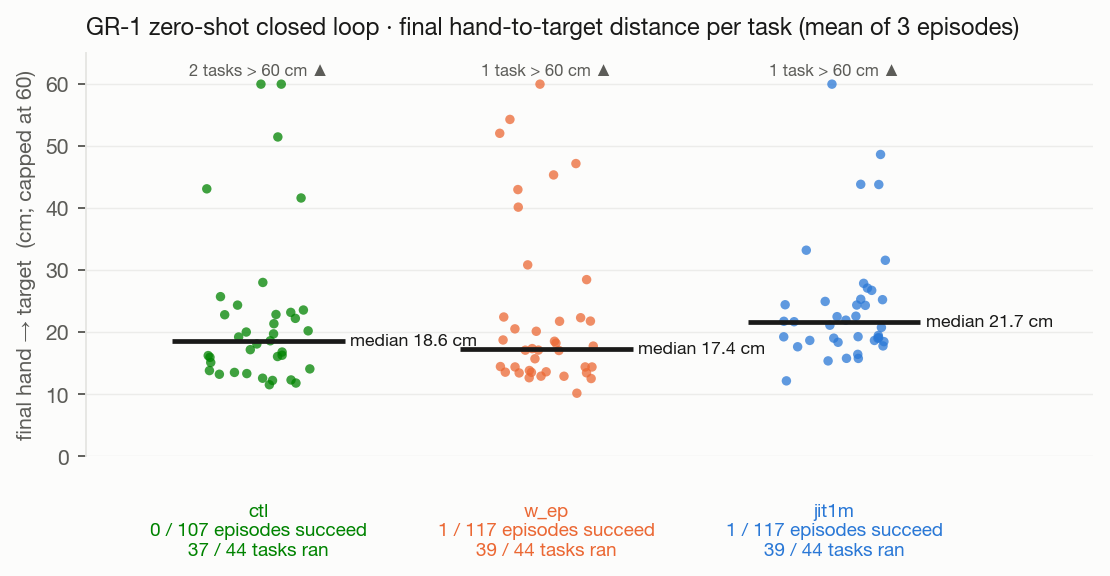
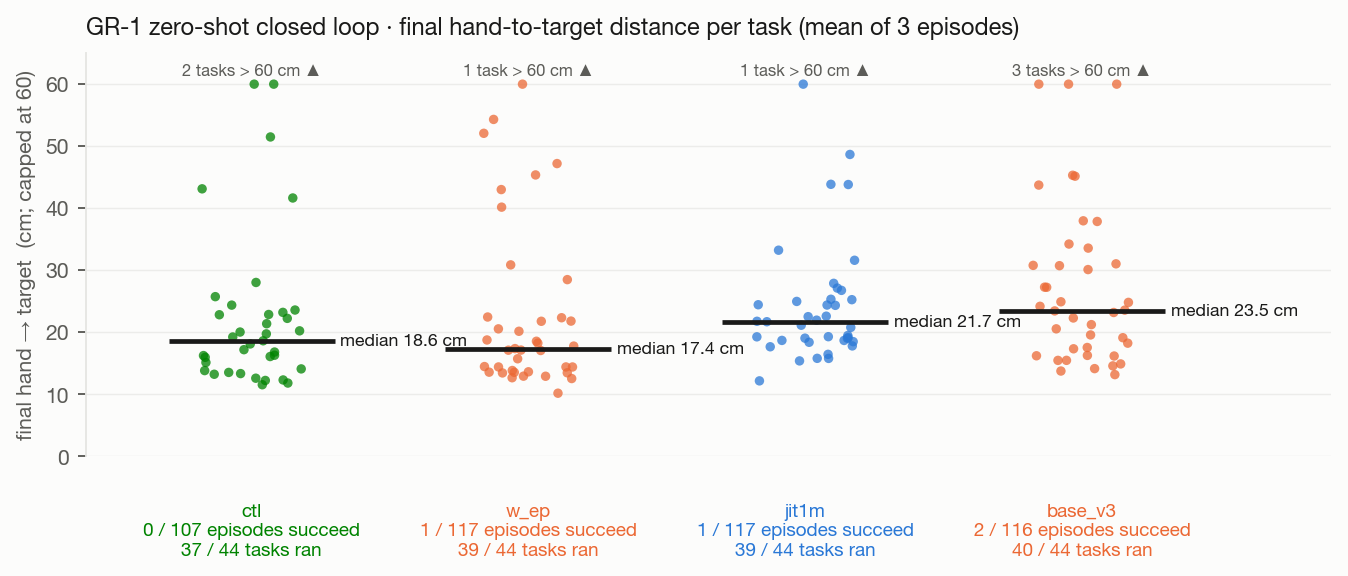
3D-WAM deck #12: GR-1 base_v3 sweep landed (2/116, median 23.5 cm; fixtures 31.5 cm), base_v3_trim running, summary 02:30
Claude-Session: https://claude.ai/code/session_012i6cGhiBDBxFeDjqgF1Aja

diff --git a/experiments/3d-wam/decks/2026-09-05-new-base/index.html b/experiments/3d-wam/decks/2026-09-05-new-base/index.html
@@ -292,10 +292,10 @@
     <li>New base: base_v3 restores history — above C2, parity with ctl</li>
     <li class="on">GR-1 zero-shot closed loop
       <ul><li>rlwrld · robocasa tabletop · 44 tasks × 3 eps · both hands · two objects (pick + target)</li>
-          <li>base_v2 not swept (chance-level); its 256-pt object path verified in MuJoCo (157980)</li></ul></li>
+          <li><b>base_v3: 2 / 116 successes, median 23.5 cm — the stratified gain does not carry into the loop</b></li></ul></li>
   </ol>
   <div class="band snug">
-    <figure style="flex:1 1 0;min-width:0"><img src="assets/fig_gr1_sweeps.png" alt="Strip chart of final hand-to-target distance per task, mean of three episodes, for three sweeps: ctl 37 of 44 tasks, 0 of 107 episodes succeed, median 18.6 cm; w_ep 39 tasks, 1 of 117, median 17.4 cm; jit1m 39 tasks, 1 of 117, median 21.7 cm. Values above 60 cm are capped and counted.">
+    <figure style="flex:1 1 0;min-width:0"><img src="assets/fig_gr1_sweeps.png" alt="Strip chart of final hand-to-target distance per task, mean of three episodes, for four sweeps: ctl 37 of 44 tasks, 0 of 107 episodes succeed, median 18.6 cm; w_ep 39 tasks, 1 of 117, median 17.4 cm; jit1m 39 tasks, 1 of 117, median 21.7 cm; base_v3 40 tasks, 2 of 116, median 23.5 cm. Black bars mark the medians; tasks above 60 cm are clipped and counted.">
       <figcaption><b>GR-1 sweeps</b> — final hand → target per task (mean of 3 eps), bar = median · only the model varies</figcaption></figure>
     <figure class="tb" style="flex:0 0 52%;min-width:0">
       <table class="compact dense nw">
@@ -305,13 +305,13 @@
           <tr><td>0904 · <b>w_ep</b> · <span class="epoch">6.00 ep</span></td><td>39 / 44</td><td>117</td><td><b>1</b></td><td>17.4</td></tr>
           <tr><td>0905 · <b>jit1m</b> · <span class="epoch">6.00 ep</span></td><td>39 / 44</td><td>117</td><td><b>1</b></td><td>21.7</td></tr>
           <tr><td>— · <b>base_v2</b> · <span class="epoch">4.14 ep</span></td><td colspan="4">not swept · MuJoCo smoke (P = 1,536 · 90 replans · rc 0)</td></tr>
-          <tr class="pend"><td>0905 · <b>base_v3</b> · <span class="epoch">4.14 ep</span></td><td colspan="4">Sun 09-06 morning · 158806 running since 22:55 KST · ≈+5 h · target: beat 1 / 117</td></tr>
+          <tr><td>0905 · <b>base_v3</b> · <span class="epoch">4.14 ep</span></td><td>40 / 44</td><td>116</td><td><b>2</b></td><td><b>23.5</b></td></tr>
         </tbody>
       </table>
       <figcaption>median over tasks of the per-task mean · sim-fail tasks excluded (appendix)</figcaption></figure>
   </div>
-  <p class="etabar"><b>ETA</b> · base_v3 sweep · rlwrld 158806 · 44 × 3 · since <b>22:55 KST</b> · <b>≈+5 h compute</b> · queue → <b>Sun 09-06 ≈04:00–09:00 KST</b></p>
-  <p class="footnote">sweep_table.json per sweep · success = robocasa task flag · PnPAppleToPlate never ran (coffee_pod error, appendix) · per-task clips: decks #10 / #11</p>
+  <p class="etabar"><b>Read</b> · object-target tasks 2 / 71, median 18.5 cm · fixture-target tasks (drawer / cabinet / microwave) 0 / 45, <b>31.5 cm</b> — fixtures are not point sets yet · next: guided sampling (URDF projection), inference-only, <b>≈1 day</b></p>
+  <p class="footnote">sweep_table.json per sweep · success = robocasa task flag · base_v3 successes: ObjectsShelfToCounter ep0, ObjectsTieredBasketToCounter ep2 · 4 sim-fail tasks (appendix) · paired vs jit1m: closer on 17 tasks, farther on 22</p>
 </section>
 
 <!-- SECTION: viz · AR rollouts · base_v2 (top) vs base_v3 (bottom) · set 1 · captions only (outside the ≤8 cap) -->
@@ -420,14 +420,14 @@
 
 <!-- SECTION: summary · LAST MAIN SLIDE · running / due / decisions -->
 <section class="slide s-discuss s-status">
-  <h2>Summary · running / due / your decisions · 2026-09-05</h2>
-  <p class="thesis">base_v3 is the base; GR-1 lands Sunday; four calls are yours.</p>
+  <h2>Summary · running / due / your decisions · 2026-09-06 02:30 KST</h2>
+  <p class="thesis">base_v3 is the base; GR-1 did not follow; filtering is training.</p>
   <div class="band">
     <figure class="tb" style="flex:1 1 50%;min-width:0">
       <table class="compact dense status wrap">
         <thead><tr><th>A · running</th><th>progress · target</th><th>lands</th></tr></thead>
         <tbody>
-          <tr><td><b>GR-1 sweep</b> 158806 · rlwrld</td><td>base_v3 · 44 × 3 eps · %3 · target: beat 1 / 117</td><td>≈+5 h → <b>Sun ≈04:00–09:00</b></td></tr>
+          <tr><td><b>base_v3_trim</b> 7784 · normal · 4×H100</td><td>filtered train index (89.9 % of chunks) · 110,996 st · val cos 0.243 @10k (base_v3 0.277)</td><td>since 00:22 → <b>Sun ≈09:00 KST</b></td></tr>
           <tr class="pend"><td><b>base_v2_ct</b> 7353 · λ 0.1</td><td>PENDING · no-history recipe</td><td>unestimated</td></tr>
           <tr class="pend"><td><b>base_v2_po05</b> 7354 · p 0.5</td><td>PENDING · no-history recipe</td><td>unestimated</td></tr>
         </tbody>
@@ -436,7 +436,8 @@
       <table class="compact dense status wrap">
         <thead><tr><th>B · due, no input</th><th>work</th><th>when</th></tr></thead>
         <tbody>
-          <tr class="pend"><td><b>GR-1</b> base_v3 harvest → deck</td><td>+30 min after the sweep</td><td>Sun 09-06 morning</td></tr>
+          <tr><td><b>GR-1</b> base_v3 sweep 158806</td><td>harvested · 2 / 116 · 23.5 cm</td><td>this deck</td></tr>
+          <tr class="pend"><td><b>base_v3_trim</b> eval + paired + clips</td><td>+20 min after landing</td><td>Sun ≈09:30 KST</td></tr>
           <tr><td><b>base_v3</b> + <b>C2</b> evals, clips</td><td>landed 23:00 KST</td><td>this deck</td></tr>
         </tbody>
       </table></figure>
@@ -453,7 +454,7 @@
         </tbody>
       </table></figure>
   </div>
-  <p class="etabar"><b>ETA at a glance</b> · GR-1 base_v3 <b>Sun 09-06 ≈04:00–09:00 KST</b> (≈+5 h compute, queue) · harvest + deck <b>+30 min</b> after · ct / po05 <b>unestimated</b></p>
+  <p class="etabar"><b>ETA at a glance</b> · base_v3_trim lands <b>Sun ≈09:00 KST</b> (+6.5 h) · its eval + paired <b>+20 min</b> · ct / po05 <b>unestimated</b> · VITRA + guided-sampling notes: pull4/, for the morning</p>
   <p class="footnote">grey italic = not landed · silence defaults to the recommendation · base_v3 = weights_final.pt of ICLR27 7487 (110,996 steps, 8.6 h on 4×H100)</p>
 </section>
 
